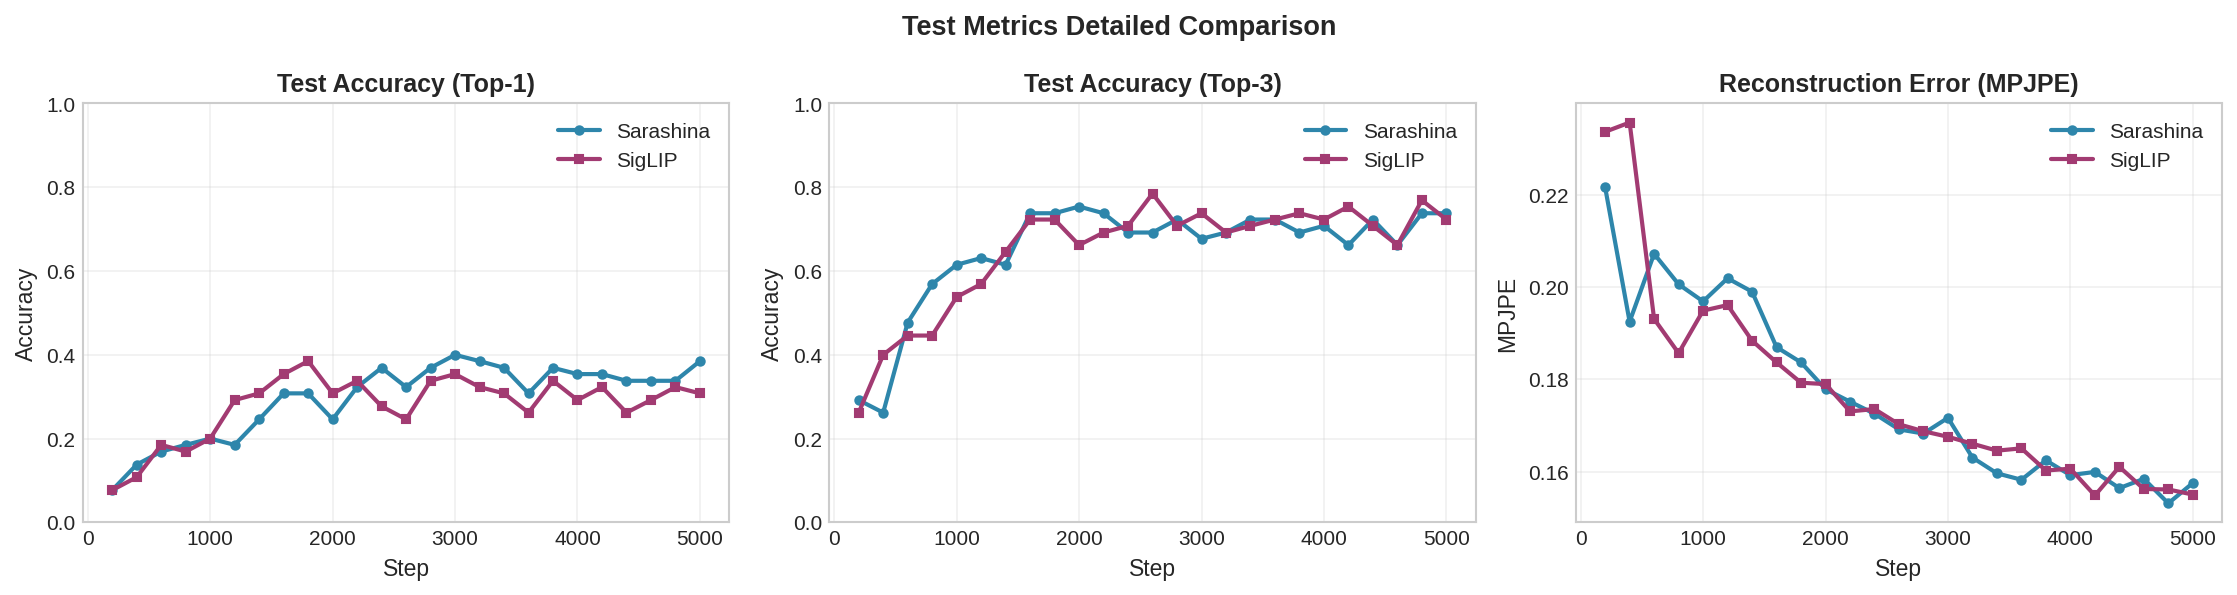
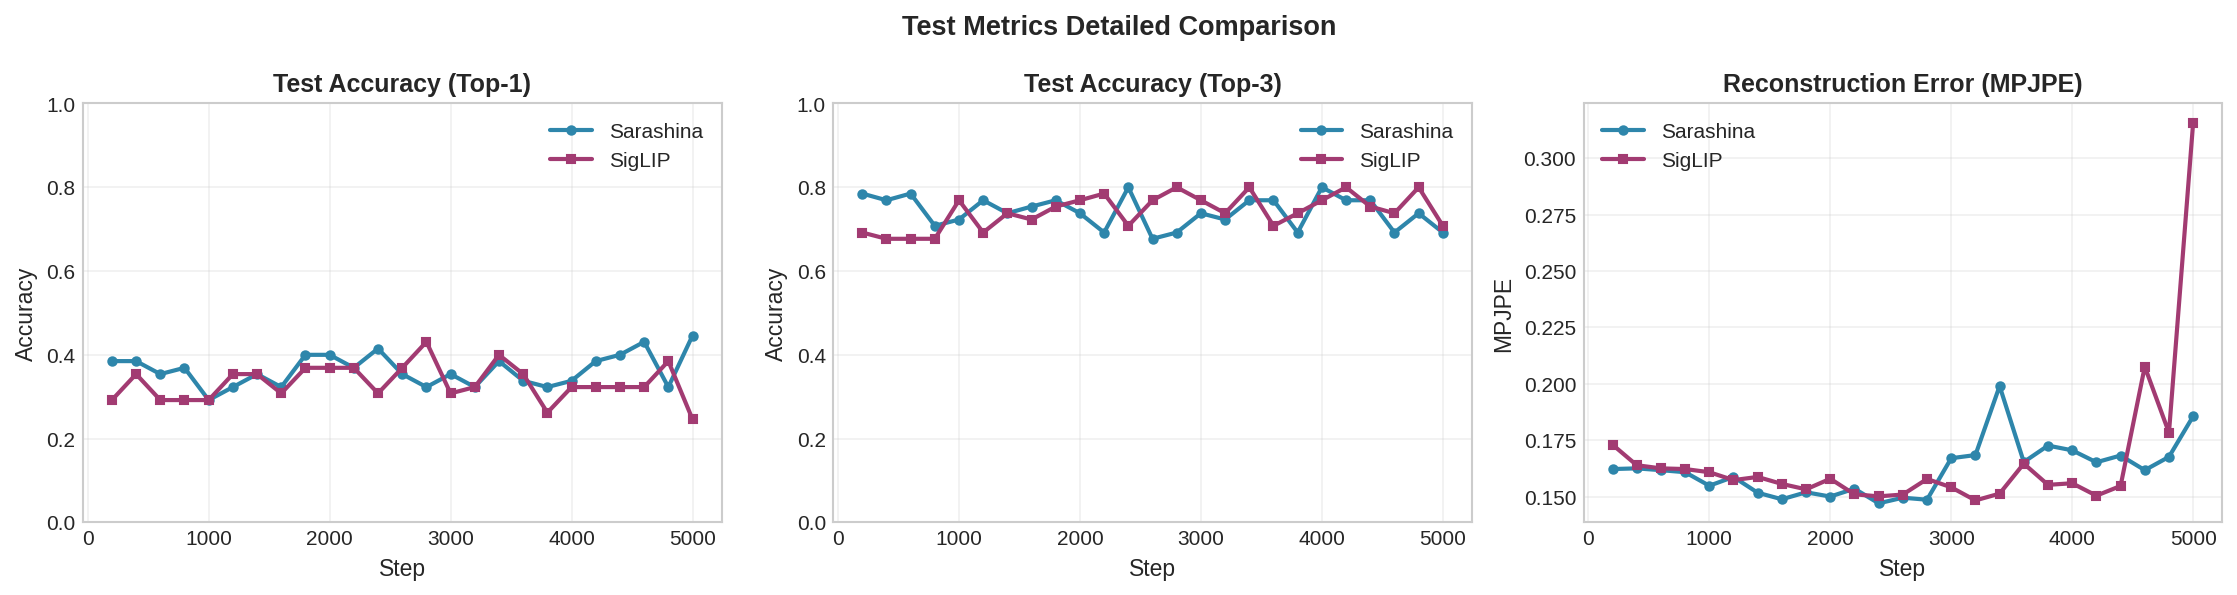
report第一版完了

diff --git a/hoyo_v1_1/viz/plot_training_curves.py b/hoyo_v1_1/viz/plot_training_curves.py
@@ -4,10 +4,11 @@
 SarashinaとSigLIPエンコーダの学習ログを比較プロット
 """
 
+import argparse
 import re
 import sys
 from pathlib import Path
-from typing import Dict, List, Tuple
+from typing import Dict, List
 
 import matplotlib.pyplot as plt
 import matplotlib
@@ -241,28 +242,45 @@ def plot_test_metrics_detail(
     return output_path
 
 
-def main():
-    # Paths
+def parse_args() -> argparse.Namespace:
+    """
+    CLI引数を定義し、デフォルトで直近（2025-12-04）のログを参照する。
+    """
     base_dir = Path(__file__).resolve().parents[1] / "joint_training_results"
-    sarashina_log = base_dir / "sarashina_full_fixed" / "logs" / "train_log_20251203_163810.txt"
-    siglip_log = base_dir / "siglip_full_fixed" / "logs" / "train_log_20251203_164052.txt"
-    output_dir = Path(__file__).resolve().parent / "outputs" / "encoder_comparison_full"
-    output_dir.mkdir(parents=True, exist_ok=True)
-    
-    if not sarashina_log.exists():
-        print(f"Error: Sarashina log not found: {sarashina_log}")
+    default_sarashina = base_dir / "sarashina_full_fixed" / "logs" / "train_log_20251204_150735.txt"
+    default_siglip = base_dir / "siglip_full_fixed" / "logs" / "train_log_20251204_151008.txt"
+    default_out = Path(__file__).resolve().parent / "outputs" / "encoder_comparison_full"
+
+    parser = argparse.ArgumentParser(
+        description="Plot loss/accuracy curves for Sarashina vs SigLIP text encoders."
+    )
+    parser.add_argument("--sarashina-log", type=Path, default=default_sarashina,
+                        help=f"Path to Sarashina log (default: {default_sarashina})")
+    parser.add_argument("--siglip-log", type=Path, default=default_siglip,
+                        help=f"Path to SigLIP log (default: {default_siglip})")
+    parser.add_argument("--output-dir", type=Path, default=default_out,
+                        help=f"Directory to save plots (default: {default_out})")
+    return parser.parse_args()
+
+
+def main():
+    args = parse_args()
+
+    if not args.sarashina_log.exists():
+        print(f"Error: Sarashina log not found: {args.sarashina_log}")
         sys.exit(1)
-    if not siglip_log.exists():
-        print(f"Error: SigLIP log not found: {siglip_log}")
+    if not args.siglip_log.exists():
+        print(f"Error: SigLIP log not found: {args.siglip_log}")
         sys.exit(1)
-    
+
+    args.output_dir.mkdir(parents=True, exist_ok=True)
+
     # Generate plots
-    plot_training_comparison(sarashina_log, siglip_log, output_dir)
-    plot_test_metrics_detail(sarashina_log, siglip_log, output_dir)
-    
-    print(f"\nAll plots saved to: {output_dir}")
+    plot_training_comparison(args.sarashina_log, args.siglip_log, args.output_dir)
+    plot_test_metrics_detail(args.sarashina_log, args.siglip_log, args.output_dir)
+
+    print(f"\nAll plots saved to: {args.output_dir}")
 
 
 if __name__ == "__main__":
     main()
-

diff --git a/hoyo_v1_1/viz/outputs/encoder_comparison_full/analysis_report.md b/hoyo_v1_1/viz/outputs/encoder_comparison_full/analysis_report.md
@@ -1,6 +1,6 @@
 # SigLIP vs Sarashina テキストエンコーダ比較実験レポート
 
-**実験日**: 2024年12月4日  
+**実験日**: 2025年12月4日  
 **目的**: 日本語オノマトペ（歩行スタイル）とモーションの対照学習において、テキストエンコーダの選択が精度に与える影響を調査
 
 ---
@@ -146,6 +146,22 @@ seed: 42
 ### 4.3 メトリクス比較
 
 ![Metrics Comparison](metrics_comparison.png)
+
+### 4.4 トレーニング曲線（損失・精度、2025-12-04 Run）
+
+![Training Curves](training_curves_comparison.png)
+
+- Sarashina は学習末期までテストAcc@1が伸び、**Step 5000 で 0.446（Best）**。SigLIP は **Step 2800 で 0.431（Best）** に達した後、終盤で低下（最終 0.246）。
+- 損失は両者とも安定して減少するが、SigLIP はコントラスト損失の揺れが大きく、後半の汎化低下と対応している可能性。
+- Train Acc は両者とも 0.7 付近まで上昇。過学習というよりテスト分布への適合度差が影響していそう。
+
+### 4.5 テストメトリクス推移（Top-1 / Top-3 / MPJPE）
+
+![Test Metrics Detail](test_metrics_detail.png)
+
+- Top-3 は両モデルとも常時 0.69〜0.80 台で高止まりし、順位付けの相対性は確保。
+- MPJPE は Sarashina が全体に安定（0.147〜0.200）、SigLIP は後半に一時悪化（Step 4600 付近）しつつも概ね同等レンジ。
+- 運用上、SigLIP を使う場合は **中盤（〜Step 3000）でのアーリーストッピング** を検討すると精度低下を回避できる。
 
 ---
 